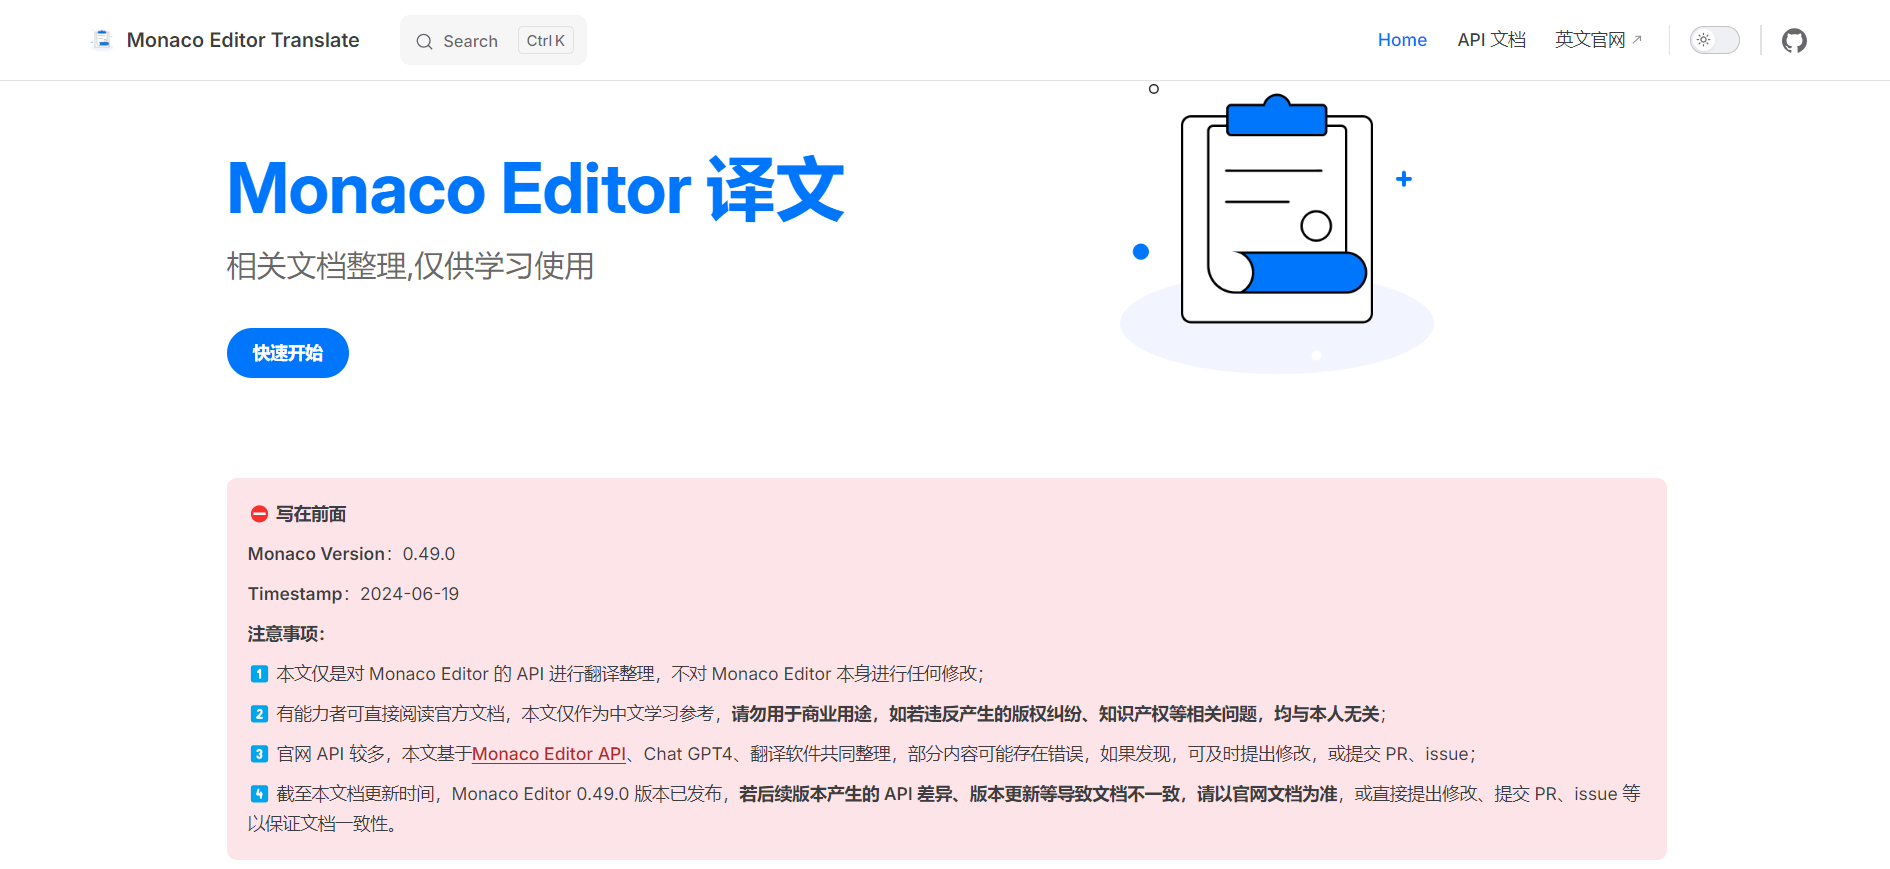
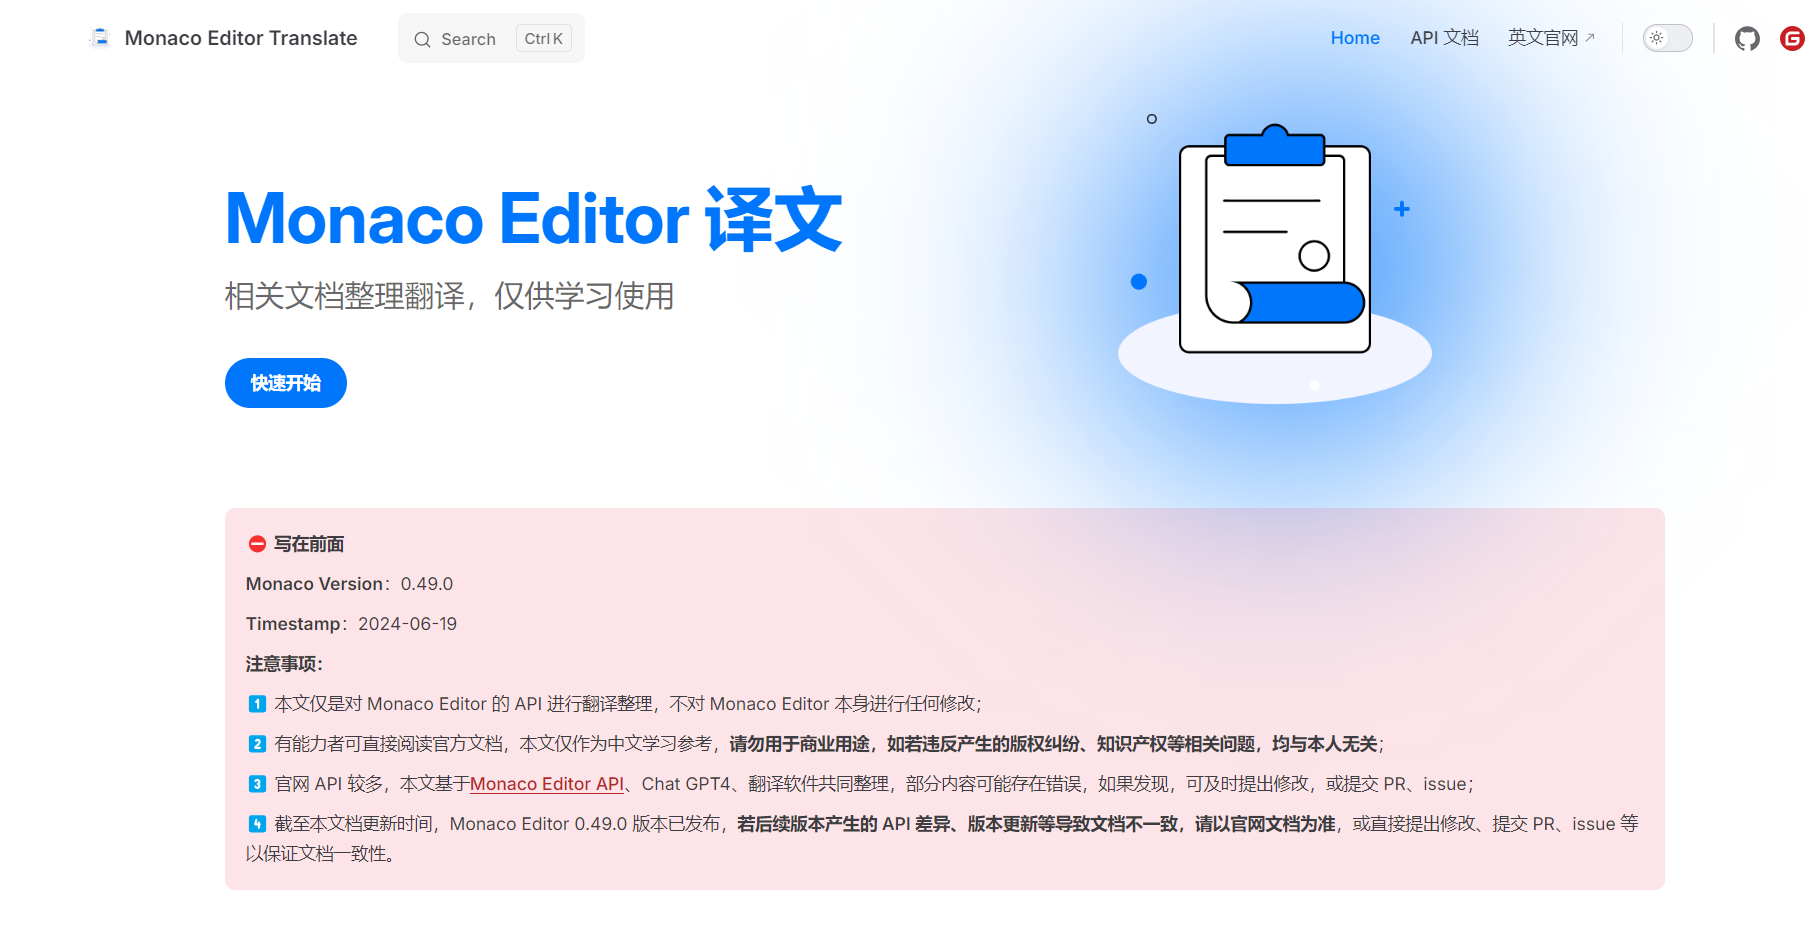
feat: 新增编辑此页、最后更新时间功能

diff --git a/docs/.vitepress/config.js b/docs/.vitepress/config.js
@@ -5,6 +5,15 @@ export default defineConfig({
   title: "Monaco Editor Translate",
   description: "Monaco Editor 官网翻译，中文版学习资料",
   themeConfig: {
+    editLink: {
+      pattern:
+        "https://github.com/wf0/monaco-editor-translate/tree/master/docs/:path",
+      text: "在 GitHub 上编辑此页面",
+    },
+
+    lastUpdated: {
+      text: "最后更新时间",
+    },
     title: "demo",
     outline: {
       label: "页面导航",
@@ -24,6 +33,12 @@ export default defineConfig({
     sidebar,
     socialLinks: [
       { icon: "github", link: "https://github.com/vuejs/vitepress" },
+      {
+        icon: {
+          svg: '<svg t="1719624380656" class="icon" viewBox="0 0 1024 1024" version="1.1" xmlns="http://www.w3.org/2000/svg" p-id="4391" width="200" height="200"><path d="M512 1024C229.222 1024 0 794.778 0 512S229.222 0 512 0s512 229.222 512 512-229.222 512-512 512z m259.149-568.883h-290.74a25.293 25.293 0 0 0-25.292 25.293l-0.026 63.206c0 13.952 11.315 25.293 25.267 25.293h177.024c13.978 0 25.293 11.315 25.293 25.267v12.646a75.853 75.853 0 0 1-75.853 75.853h-240.23a25.293 25.293 0 0 1-25.267-25.293V417.203a75.853 75.853 0 0 1 75.827-75.853h353.946a25.293 25.293 0 0 0 25.267-25.292l0.077-63.207a25.293 25.293 0 0 0-25.268-25.293H417.152a189.62 189.62 0 0 0-189.62 189.645V771.15c0 13.977 11.316 25.293 25.294 25.293h372.94a170.65 170.65 0 0 0 170.65-170.65V480.384a25.293 25.293 0 0 0-25.293-25.267z" fill="#C71D23" p-id="4392"></path></svg>',
+        },
+        link: "https://gitee.com/wfeng0/monaco-editor-translate",
+      },
     ],
   },
 });

diff --git a/docs/.vitepress/theme/custom.css b/docs/.vitepress/theme/custom.css
@@ -1,8 +1,19 @@
 /* .vitepress/theme/custom.css */
 :root {
+  --vp-c-brand: #0076fc;
   --vp-c-brand-1: #0076fc;
   --vp-c-brand-2: #0076fc;
   --vp-c-indigo-3: #0076fc;
+  --vp-c-brand-next: #F2F4FF;
+  /* 按钮颜色 */
+  --vp-button-brand-bg: var(--vp-c-brand);
+  /* 首页标题和图片渐变颜色 */
+  --vp-home-hero-image-background-image: linear-gradient(
+    -45deg,
+    var(--vp-c-brand) 45%,
+    var(--vp-c-brand-next)
+  );
+  --vp-home-hero-image-filter: blur(100px);
 }
 /* 换行 */
 .VPDoc .container > .content * {

diff --git a/docs/api/editor/EditorLayoutInfo.md b/docs/api/editor/EditorLayoutInfo.md
@@ -4,6 +4,8 @@
 https://microsoft.github.io/monaco-editor/docs.html#interfaces/editor.EditorLayoutInfo.html
 :::
 
+编辑器的内部布局详细信息。
+
 ```ts
 interface EditorLayoutInfo {
     contentLeft: number;
@@ -27,3 +29,103 @@ interface EditorLayoutInfo {
     wrappingColumn: number;
 }
 ```
+
+## 快捷链接
+<script setup>
+    const data = [
+  { icon: "P", link: "contentLeft" },
+  { icon: "P", link: "contentWidth" },
+  { icon: "P", link: "decorationsLeft" },
+  { icon: "P", link: "decorationsWidth" },
+  { icon: "P", link: "glyphMarginDecorationLaneCount" },
+  { icon: "P", link: "glyphMarginLeft" },
+  { icon: "P", link: "glyphMarginWidth" },
+  { icon: "P", link: "height" },
+  { icon: "P", link: "horizontalScrollbarHeight" },
+  { icon: "P", link: "isViewportWrapping" },
+  { icon: "P", link: "isWordWrapMinified" },
+  { icon: "P", link: "lineNumbersLeft" },
+  { icon: "P", link: "lineNumbersWidth" },
+  { icon: "P", link: "minimap" },
+  { icon: "P", link: "overviewRuler" },
+  { icon: "P", link: "verticalScrollbarWidth" },
+  { icon: "P", link: "viewportColumn" },
+  { icon: "P", link: "width" },
+  { icon: "P", link: "wrappingColumn" },
+];
+
+</script>
+<dataItems :data="data"/>
+
+## contentLeft
+- 类型：`number`
+- 描述：内容的左侧位置（实际文本）
+
+## contentWidth
+- 类型：`number`
+- 描述：内容的宽度（实际文本）
+
+## decorationsLeft
+- 类型：`number`
+- 描述：线条装饰的左侧位置。
+
+## decorationsWidth
+- 类型：`number`
+- 描述：线条装饰的宽度。
+
+## glyphMarginDecorationLaneCount
+- 类型：`number`
+- 描述：要在图示符边距中渲染的装饰车道数。
+
+## glyphMarginLeft
+- 类型：`number`
+- 描述：图示符边距的左侧位置。
+
+## glyphMarginWidth
+- 类型：`number`
+- 描述：字形边距的宽度。
+
+## height
+- 类型：`number`
+- 描述：完全编辑器高度。
+
+## horizontalScrollbarHeight
+- 类型：`number`
+- 描述：水平滚动条的高度。
+
+## isViewportWrapping
+- 类型：`boolean`
+
+## isWordWrapMinified
+- 类型：`boolean`
+
+## lineNumbersLeft
+- 类型：`number`
+- 描述：行号的左侧位置。
+
+## lineNumbersWidth
+- 类型：`number`
+- 描述：行号的宽度。
+
+## minimap
+- 类型：[EditorMinimapLayoutInfo](/api/editor/EditorMinimapLayoutInfo.md)
+- 描述：最小映射的布局信息
+
+## overviewRuler
+- 类型：[OverviewRulerPosition](/api/editor/OverviewRulerPosition.md)
+- 描述：概览标尺的位置。
+
+## verticalScrollbarWidth
+- 类型：`number`
+- 描述：垂直滚动条的宽度。
+
+## viewportColumn
+- 类型：`number`
+- 描述：适合视口线上的列数（典型字符）。
+
+## width
+- 类型：`number`
+- 描述：宽度
+
+## wrappingColumn
+- 类型：`number`

diff --git a/docs/api/editor/EditorMinimapLayoutInfo.md b/docs/api/editor/EditorMinimapLayoutInfo.md
@@ -1,6 +1,63 @@
 # EditorMinimapLayoutInfo
         
 ::: details 原文链接
-This is a details block.
+https://microsoft.github.io/monaco-editor/docs.html#interfaces/editor.EditorMinimapLayoutInfo.html
 :::
-        
+
+```ts
+interface EditorMinimapLayoutInfo {
+    minimapCanvasInnerHeight: number;
+    minimapCanvasInnerWidth: number;
+    minimapCanvasOuterHeight: number;
+    minimapCanvasOuterWidth: number;
+    minimapHeightIsEditorHeight: boolean;
+    minimapIsSampling: boolean;
+    minimapLeft: number;
+    minimapLineHeight: number;
+    minimapScale: number;
+    minimapWidth: number;
+    renderMinimap: RenderMinimap;
+}
+```
+
+## 快捷链接
+<script setup>
+    const data = [
+  { icon: "P", link: "minimapCanvasInnerHeight" },
+  { icon: "P", link: "minimapCanvasInnerWidth" },
+  { icon: "P", link: "minimapCanvasOuterHeight" },
+  { icon: "P", link: "minimapCanvasOuterWidth" },
+  { icon: "P", link: "minimapHeightIsEditorHeight" },
+  { icon: "P", link: "minimapIsSampling" },
+  { icon: "P", link: "minimapLeft" },
+  { icon: "P", link: "minimapLineHeight" },
+  { icon: "P", link: "minimapScale" },
+  { icon: "P", link: "minimapWidth" },
+  { icon: "P", link: "renderMinimap" },
+];
+
+</script>
+<dataItems :data="data" />
+
+## minimapCanvasInnerHeight
+- 类型: `number`
+## minimapCanvasInnerWidth
+- 类型: `number`
+## minimapCanvasOuterHeight
+- 类型: `number`
+## minimapCanvasOuterWidth
+- 类型: `number`
+## minimapHeightIsEditorHeight
+- 类型: `boolean`
+## minimapIsSampling
+- 类型: `boolean`
+## minimapLeft
+- 类型: `number`
+## minimapLineHeight
+- 类型: `number`
+## minimapScale
+- 类型: `number`
+## minimapWidth
+- 类型: `number`
+## renderMinimap
+- 类型: [RenderMinimap](/api/editor/RenderMinimap.md)

diff --git a/docs/api/editor/TextModelResolvedOptions.md b/docs/api/editor/TextModelResolvedOptions.md
@@ -1,6 +1,60 @@
 # TextModelResolvedOptions
         
 ::: details 原文链接
-This is a details block.
+https://microsoft.github.io/monaco-editor/docs.html#classes/editor.TextModelResolvedOptions.html
 :::
-        
+
+## 快捷链接
+<script setup>
+    const data = [
+  { icon: "C", link: "constructor" },
+  {
+    icon: "P",
+    title: "_textModelResolvedOptionsBrand",
+    link: "textModelResolvedOptionsBrand",
+  },
+  { icon: "P", link: "bracketPairColorizationOptions" },
+  { icon: "P", link: "defaultEOL" },
+  { icon: "P", link: "indentSize" },
+  { icon: "P", link: "insertSpaces" },
+  { icon: "P", link: "tabSize" },
+  { icon: "P", link: "trimAutoWhitespace" },
+  { icon: "A", link: "originalIndentSize" },
+];
+</script>
+<dataItems :data="data" />
+
+## constructor
+- 语法：`new TextModelResolvedOptions(): TextModelResolvedOptions`
+
+## _textModelResolvedOptionsBrand
+- 类型：`void`
+
+
+## bracketPairColorizationOptions
+- 类型：[BracketPairColorizationOptions](/api/editor/BracketPairColorizationOptions.md)
+
+
+## defaultEOL
+- 类型：[DefaultEndOfLine](/api/editor/DefaultEndOfLine.md)
+
+
+## indentSize
+- 类型：`number`
+
+
+## insertSpaces
+- 类型：`boolean`
+
+
+## tabSize
+- 类型：`number`
+
+
+## trimAutoWhitespace
+- 类型：`boolean`
+
+
+## originalIndentSize
+- 语法：`get originalIndentSize(): number | "tabSize"`
+

diff --git a/README.md b/README.md
@@ -16,10 +16,10 @@
 
 ## 特性
 
+- 附加DEMO：特定API还增加样例及截图，使得用户更清晰了解API的使用；
 - 贴合官网：采用原生目录接口进行编写，保持与官网一致的目录结构；
-- API示例：特定API还增加样例及截图，使得用户更清晰了解API的使用；
+- 文档全面：全文共计`500+`篇文章，涵盖全部API；
 - 版本最新：翻译目前最新版本 `V0.49.0`；
-- 附加DEMO：针对难点，书写了相关DEMO，使得更快了解其含义。
 
 ## 相关截图
 
@@ -33,5 +33,5 @@
 
 1. github地址：https://github.com/wf0/monaco-editor-translate
 2. gitee地主：https://gitee.com/wfeng0/monaco-editor-translate
-3. 如果发现文档存在错误，欢迎提交 PR 或 Issue
+3. 如果发现文档存在错误，欢迎提交 PR 或 Issue，亦或直接点击页面 `在 GitHub 上编辑此页面` ，前往提交。
 4. 欢迎加入QQ群，一起交流

diff --git a/docs/api/editor/EditorWrappingInfo.md b/docs/api/editor/EditorWrappingInfo.md
@@ -1,6 +1,22 @@
 # EditorWrappingInfo
         
 ::: details 原文链接
-This is a details block.
+https://microsoft.github.io/monaco-editor/docs.html#interfaces/editor.EditorWrappingInfo.html
 :::
-        
+
+```ts
+interface EditorWrappingInfo {
+    isDominatedByLongLines: boolean;
+    isViewportWrapping: boolean;
+    isWordWrapMinified: boolean;
+    wrappingColumn: number;
+}
+```
+## isDominatedByLongLines
+- 类型: `boolean`
+## isViewportWrapping
+- 类型: `boolean`
+## isWordWrapMinified
+- 类型: `boolean`
+## wrappingColumn
+- 类型: `number`

diff --git a/docs/api/editor/BracketPairColorizationOptions.md b/docs/api/editor/BracketPairColorizationOptions.md
@@ -1,6 +1,17 @@
 # BracketPairColorizationOptions
         
 ::: details 原文链接
-This is a details block.
+https://microsoft.github.io/monaco-editor/docs.html#interfaces/editor.BracketPairColorizationOptions.html
 :::
-        
+
+```ts
+interface BracketPairColorizationOptions {
+    enabled: boolean;
+    independentColorPoolPerBracketType: boolean;
+}
+```
+
+## enabled
+- 类型：`boolean`
+## independentColorPoolPerBracketType
+- 类型：`boolean`

diff --git a/docs/index.md b/docs/index.md
@@ -4,7 +4,7 @@ layout: home
 hero:
   name: "Monaco Editor 译文"
   text: ""
-  tagline: 相关文档整理,仅供学习使用
+  tagline: 相关文档整理翻译，仅供学习使用
   image:
       src: bg.png
       alt: 背景图
